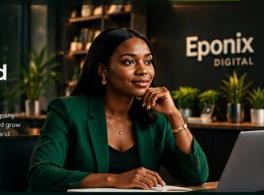
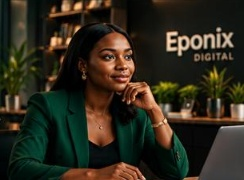
Enhance About page typography contrast, overlap Mission/Vision cards on story image, and eliminate background artifacts from photos

diff --git a/app/about/page.tsx b/app/about/page.tsx
@@ -22,21 +22,21 @@ export const metadata = {
 export default function AboutPage() {
   return (
     <div className="text-[#0c1210] bg-[#E6EADF]">
-      {/* 1. HERO (Light Cream #E6EADF - Fresh, Welcoming, Not Dark) */}
+      {/* 1. HERO (Light Cream #E6EADF - High Contrast, Bold Black & Primary Green) */}
       <section className="relative overflow-hidden bg-[#E6EADF] text-[#0c1210] pt-32 pb-20 lg:pt-40 lg:pb-28 border-b border-[#ced7cd]">
         <div className="site-container">
           <div className="grid grid-cols-1 lg:grid-cols-12 gap-12 lg:gap-16 items-center">
             {/* Left Column */}
             <div className="lg:col-span-7 space-y-6">
-              <div className="inline-flex items-center gap-2 font-mono text-[11px] tracking-[0.16em] uppercase text-[#367054] font-bold">
-                <span className="w-6 h-[2px] bg-[#367054]" />
+              <div className="inline-flex items-center gap-2 font-mono text-[12px] tracking-[0.16em] uppercase text-[#17382b] font-bold">
+                <span className="w-6 h-[2px] bg-[#17382b]" />
                 About Eponix Digital
               </div>
               <h1 className="text-[38px] sm:text-[54px] lg:text-[68px] font-bold leading-[1.02] tracking-[-0.05em] text-[#0c1210]">
                 Built for the Business Behind{" "}
-                <span className="text-[#265239]">the Ambition.</span>
+                <span className="text-[#17382b]">the Ambition.</span>
               </h1>
-              <p className="text-[16px] sm:text-[18px] text-[#55655b] leading-relaxed max-w-xl">
+              <p className="text-[16px] sm:text-[18px] text-[#2b3a30] font-medium leading-relaxed max-w-xl">
                 Eponix Digital is a business and digital solutions company helping Nigerian businesses build, brand, operate and grow with confidence - from registration to automation and beyond.
               </p>
               <div className="pt-2">
@@ -47,9 +47,9 @@ export default function AboutPage() {
               </div>
             </div>
 
-            {/* Right Column: Executive Portrait */}
+            {/* Right Column: Executive Director Portrait */}
             <div className="lg:col-span-5">
-              <div className="relative overflow-hidden rounded-2xl border border-[#ced7cd] shadow-xl group">
+              <div className="relative overflow-hidden rounded-3xl border border-[#ced7cd] shadow-2xl group bg-[#07100c]">
                 <img
                   src="/images/about-hero-director.jpg"
                   alt="Eponix Digital Executive Leadership"
@@ -61,67 +61,67 @@ export default function AboutPage() {
         </div>
       </section>
 
-      {/* 2. METRIC STRIP (Crisp Light Cream Strip #f3f5ec) */}
+      {/* 2. METRIC STRIP (Crisp Warm Light Cream Strip #f3f5ec) */}
       <section className="bg-[#f3f5ec] py-14 border-b border-[#ced7cd]">
         <div className="site-container">
           <div className="grid grid-cols-2 lg:grid-cols-4 gap-8">
             <div className="flex items-center gap-4">
-              <div className="w-12 h-12 rounded-xl bg-[#e5eadf] border border-[#ced7cd] flex items-center justify-center text-[#17382b] shrink-0">
+              <div className="w-12 h-12 rounded-xl bg-[#dce4d6] border border-[#c5d1bf] flex items-center justify-center text-[#17382b] shrink-0">
                 <Users className="w-6 h-6" />
               </div>
               <div>
-                <div className="text-[28px] sm:text-[34px] font-bold text-[#0c1210] leading-tight">500+</div>
-                <div className="text-[13px] text-[#55655b] uppercase tracking-wider font-mono">Businesses Supported</div>
+                <div className="text-[28px] sm:text-[34px] font-black text-[#0c1210] leading-tight">500+</div>
+                <div className="text-[13px] text-[#2b3a30] font-bold uppercase tracking-wider font-mono">Businesses Supported</div>
               </div>
             </div>
 
             <div className="flex items-center gap-4">
-              <div className="w-12 h-12 rounded-xl bg-[#e5eadf] border border-[#ced7cd] flex items-center justify-center text-[#17382b] shrink-0">
+              <div className="w-12 h-12 rounded-xl bg-[#dce4d6] border border-[#c5d1bf] flex items-center justify-center text-[#17382b] shrink-0">
                 <ShieldCheck className="w-6 h-6" />
               </div>
               <div>
-                <div className="text-[28px] sm:text-[34px] font-bold text-[#0c1210] leading-tight">98%</div>
-                <div className="text-[13px] text-[#55655b] uppercase tracking-wider font-mono">Client Satisfaction</div>
+                <div className="text-[28px] sm:text-[34px] font-black text-[#0c1210] leading-tight">98%</div>
+                <div className="text-[13px] text-[#2b3a30] font-bold uppercase tracking-wider font-mono">Client Satisfaction</div>
               </div>
             </div>
 
             <div className="flex items-center gap-4">
-              <div className="w-12 h-12 rounded-xl bg-[#e5eadf] border border-[#ced7cd] flex items-center justify-center text-[#17382b] shrink-0">
+              <div className="w-12 h-12 rounded-xl bg-[#dce4d6] border border-[#c5d1bf] flex items-center justify-center text-[#17382b] shrink-0">
                 <Layers className="w-6 h-6" />
               </div>
               <div>
-                <div className="text-[24px] sm:text-[28px] font-bold text-[#0c1210] leading-tight">End-to-End</div>
-                <div className="text-[13px] text-[#55655b] uppercase tracking-wider font-mono">Business Solutions</div>
+                <div className="text-[24px] sm:text-[28px] font-black text-[#0c1210] leading-tight">End-to-End</div>
+                <div className="text-[13px] text-[#2b3a30] font-bold uppercase tracking-wider font-mono">Business Solutions</div>
               </div>
             </div>
 
             <div className="flex items-center gap-4">
-              <div className="w-12 h-12 rounded-xl bg-[#e5eadf] border border-[#ced7cd] flex items-center justify-center text-[#17382b] shrink-0">
+              <div className="w-12 h-12 rounded-xl bg-[#dce4d6] border border-[#c5d1bf] flex items-center justify-center text-[#17382b] shrink-0">
                 <TrendingUp className="w-6 h-6" />
               </div>
               <div>
-                <div className="text-[24px] sm:text-[28px] font-bold text-[#0c1210] leading-tight">Ongoing</div>
-                <div className="text-[13px] text-[#55655b] uppercase tracking-wider font-mono">Support &amp; Partnership</div>
+                <div className="text-[24px] sm:text-[28px] font-black text-[#0c1210] leading-tight">Ongoing</div>
+                <div className="text-[13px] text-[#2b3a30] font-bold uppercase tracking-wider font-mono">Support &amp; Growth</div>
               </div>
             </div>
           </div>
         </div>
       </section>
 
-      {/* 3. OUR STORY & MISSION/VISION (Deep Forest Obsidian #07100c) */}
-      <section className="bg-[#07100c] text-[#f4f6ed] py-24 lg:py-32 border-b border-[rgba(201,249,90,0.14)]" id="story">
+      {/* 3. OUR STORY & MISSION/VISION (Light Cream #E6EADF with Overlapping Mission/Vision Cards) */}
+      <section className="bg-[#E6EADF] text-[#0c1210] py-24 lg:py-32 border-b border-[#ced7cd]" id="story">
         <div className="site-container">
           <div className="grid grid-cols-1 lg:grid-cols-12 gap-12 lg:gap-16 items-start">
             {/* Left Column: Story Copy */}
             <div className="lg:col-span-6 space-y-6">
-              <div className="inline-flex items-center gap-2 font-mono text-[11px] tracking-[0.16em] uppercase text-[#c9f95a]">
-                <span className="w-6 h-[2px] bg-[#c9f95a]" />
+              <div className="inline-flex items-center gap-2 font-mono text-[12px] tracking-[0.16em] uppercase text-[#17382b] font-bold">
+                <span className="w-6 h-[2px] bg-[#17382b]" />
                 Our Story
               </div>
-              <h2 className="text-[34px] sm:text-[46px] lg:text-[54px] font-bold leading-[1.05] tracking-[-0.05em] text-[#f4f6ed]">
-                A Partner in Your <span className="text-[#c9f95a]">Business Journey.</span>
+              <h2 className="text-[34px] sm:text-[46px] lg:text-[54px] font-bold leading-[1.05] tracking-[-0.05em] text-[#0c1210]">
+                A Partner in Your <span className="text-[#17382b]">Business Journey.</span>
               </h2>
-              <div className="space-y-4 text-[16px] sm:text-[17px] text-[#aab6ad] leading-relaxed">
+              <div className="space-y-4 text-[16px] sm:text-[17px] text-[#2b3a30] font-medium leading-relaxed">
                 <p>
                   Eponix Digital was born from a simple belief - that Nigerian businesses deserve more than fragmented services and confusing processes.
                 </p>
@@ -131,35 +131,38 @@ export default function AboutPage() {
               </div>
             </div>
 
-            {/* Right Column: Image & Mission/Vision Cards */}
-            <div className="lg:col-span-6 space-y-6">
-              <div className="relative overflow-hidden rounded-2xl border border-[rgba(201,249,90,0.2)] shadow-xl group">
+            {/* Right Column: Executive Photo Container with Nested Overlapping Mission & Vision Cards */}
+            <div className="lg:col-span-6">
+              {/* Executive Image Container */}
+              <div className="relative overflow-hidden rounded-3xl border border-[#ced7cd] shadow-2xl group bg-[#07100c]">
                 <img
                   src="/images/how-it-works-executive.jpg"
                   alt="Eponix Digital Executive Strategy Consultation"
-                  className="w-full h-[240px] sm:h-[280px] object-cover group-hover:scale-105 transition-transform duration-700"
+                  className="w-full h-[280px] sm:h-[340px] object-cover group-hover:scale-105 transition-transform duration-700"
                 />
+                <div className="absolute inset-0 bg-gradient-to-t from-[#07130c]/70 via-transparent to-transparent pointer-events-none" />
               </div>
 
-              <div className="grid grid-cols-1 sm:grid-cols-2 gap-4">
-                {/* Mission Card */}
-                <div className="p-6 rounded-xl bg-[#0b1710] border border-[#1e3b2b] space-y-3">
+              {/* Overlapping Mission & Vision Cards (Nested into bottom portion of the image) */}
+              <div className="-mt-16 sm:-mt-20 relative z-10 px-3 sm:px-6 grid grid-cols-1 sm:grid-cols-2 gap-4">
+                {/* Mission Card (Dark Obsidian) */}
+                <div className="p-6 rounded-2xl bg-[#07130c] border border-[#1e3b2b] shadow-2xl space-y-3">
                   <div className="flex items-center gap-2 text-[#c9f95a]">
-                    <Compass className="w-5 h-5" />
-                    <span className="font-bold text-[15px] uppercase tracking-wider font-mono text-[#f4f6ed]">Our Mission</span>
+                    <Compass className="w-5 h-5 shrink-0" />
+                    <span className="font-bold text-[14px] uppercase tracking-wider font-mono text-[#f4f6ed]">Our Mission</span>
                   </div>
-                  <p className="text-[14px] text-[#aab6ad] leading-relaxed">
+                  <p className="text-[13px] sm:text-[14px] text-[#c9d5cd] leading-relaxed">
                     To simplify business growth in Nigeria by providing integrated, reliable and forward-thinking solutions.
                   </p>
                 </div>
 
-                {/* Vision Card */}
-                <div className="p-6 rounded-xl bg-[#0b1710] border border-[#1e3b2b] space-y-3">
-                  <div className="flex items-center gap-2 text-[#c9f95a]">
-                    <Eye className="w-5 h-5" />
-                    <span className="font-bold text-[15px] uppercase tracking-wider font-mono text-[#f4f6ed]">Our Vision</span>
+                {/* Vision Card (Crisp Light Cream) */}
+                <div className="p-6 rounded-2xl bg-[#dbe4d6] border border-[#bcc8b6] shadow-2xl space-y-3">
+                  <div className="flex items-center gap-2 text-[#17382b]">
+                    <Eye className="w-5 h-5 shrink-0" />
+                    <span className="font-bold text-[14px] uppercase tracking-wider font-mono text-[#17382b]">Our Vision</span>
                   </div>
-                  <p className="text-[14px] text-[#aab6ad] leading-relaxed">
+                  <p className="text-[13px] sm:text-[14px] text-[#1e2f25] leading-relaxed font-medium">
                     To be Africa's most trusted partner for business registration, compliance, branding, digital infrastructure and intelligent growth solutions.
                   </p>
                 </div>
@@ -169,20 +172,21 @@ export default function AboutPage() {
         </div>
       </section>
 
-      {/* 4. OUR VALUES (Official Cream #E6EADF with Dark Green Cards) */}
-      <section className="bg-[#E6EADF] text-[#0c1210] py-24 lg:py-32 border-b border-[#ced7cd]">
+      {/* 4. OUR VALUES (Deep Forest Obsidian #07100c for Brand Depth) */}
+      <section className="bg-[#07100c] text-[#f4f6ed] py-24 lg:py-32 border-b border-[rgba(201,249,90,0.14)]">
         <div className="site-container">
           <div className="grid grid-cols-1 lg:grid-cols-12 gap-8 lg:gap-16 items-end mb-16">
             <div className="lg:col-span-8 space-y-4">
-              <div className="font-mono text-[11px] tracking-[0.16em] uppercase text-[#367054] font-bold">
+              <div className="inline-flex items-center gap-2 font-mono text-[11px] tracking-[0.16em] uppercase text-[#c9f95a]">
+                <span className="w-6 h-[2px] bg-[#c9f95a]" />
                 Our Values
               </div>
-              <h2 className="text-[34px] sm:text-[46px] lg:text-[54px] font-bold leading-[1.05] tracking-[-0.05em] text-[#0c1210]">
-                The Principles <span className="text-[#265239]">That Guide Us.</span>
+              <h2 className="text-[34px] sm:text-[46px] lg:text-[54px] font-bold leading-[1.05] tracking-[-0.05em] text-[#f4f6ed]">
+                The Principles <span className="text-[#c9f95a]">That Guide Us.</span>
               </h2>
             </div>
             <div className="lg:col-span-4">
-              <p className="text-[15px] text-[#55655b] leading-relaxed">
+              <p className="text-[15px] text-[#aab6ad] leading-relaxed">
                 Everything we do at Eponix Digital is built on a set of core values that shape how we work, support our clients and deliver results.
               </p>
             </div>
@@ -236,21 +240,21 @@ export default function AboutPage() {
         </div>
       </section>
 
-      {/* 5. WHAT MAKES US DIFFERENT (Dark Obsidian #07100c) */}
-      <section className="bg-[#07100c] text-[#f4f6ed] py-24 lg:py-32 border-b border-[rgba(201,249,90,0.14)]">
+      {/* 5. WHAT MAKES US DIFFERENT (Official Cream #E6EADF with Crisp Cards) */}
+      <section className="bg-[#E6EADF] text-[#0c1210] py-24 lg:py-32 border-b border-[#ced7cd]">
         <div className="site-container">
           <div className="grid grid-cols-1 lg:grid-cols-12 gap-8 lg:gap-16 items-end mb-16">
             <div className="lg:col-span-8 space-y-4">
-              <div className="inline-flex items-center gap-2 font-mono text-[11px] tracking-[0.16em] uppercase text-[#c9f95a]">
-                <span className="w-6 h-[2px] bg-[#c9f95a]" />
+              <div className="inline-flex items-center gap-2 font-mono text-[12px] tracking-[0.16em] uppercase text-[#17382b] font-bold">
+                <span className="w-6 h-[2px] bg-[#17382b]" />
                 What Makes Us Different
               </div>
-              <h2 className="text-[34px] sm:text-[46px] lg:text-[54px] font-bold leading-[1.05] tracking-[-0.05em] text-[#f4f6ed]">
-                More Than a Service Provider. <span className="block text-[#c9f95a]">A Growth Partner.</span>
+              <h2 className="text-[34px] sm:text-[46px] lg:text-[54px] font-bold leading-[1.05] tracking-[-0.05em] text-[#0c1210]">
+                More Than a Service Provider. <span className="block text-[#17382b]">A Growth Partner.</span>
               </h2>
             </div>
             <div className="lg:col-span-4">
-              <p className="text-[15px] text-[#aab6ad] leading-relaxed">
+              <p className="text-[15px] text-[#2b3a30] font-medium leading-relaxed">
                 We combine legal, strategic, creative and technical expertise to give you end-to-end business solutions under one roof.
               </p>
             </div>
@@ -258,45 +262,45 @@ export default function AboutPage() {
 
           <div className="grid grid-cols-1 sm:grid-cols-2 lg:grid-cols-4 gap-5">
             {/* Card 1 */}
-            <div className="p-7 rounded-2xl bg-[#0b1710] border border-[#1e3b2b] hover:border-[rgba(201,249,90,0.4)] transition-all space-y-4 shadow-md">
-              <div className="w-11 h-11 rounded-xl bg-[rgba(201,249,90,0.12)] border border-[rgba(201,249,90,0.25)] flex items-center justify-center text-[#c9f95a]">
+            <div className="p-7 rounded-2xl bg-[#f3f5ec] border border-[#c5d1bf] hover:border-[#17382b] transition-all space-y-4 shadow-sm hover:shadow-md">
+              <div className="w-11 h-11 rounded-xl bg-[#dce4d6] border border-[#bcc8b6] flex items-center justify-center text-[#17382b]">
                 <Layers className="w-5 h-5" />
               </div>
-              <h3 className="text-[18px] font-bold text-[#ffffff]">End-to-End Solutions</h3>
-              <p className="text-[13px] text-[#c9d5cd] leading-relaxed">
+              <h3 className="text-[18px] font-bold text-[#0c1210]">End-to-End Solutions</h3>
+              <p className="text-[13px] text-[#2b3a30] font-medium leading-relaxed">
                 From registration to automation, we bring all the essential services together.
               </p>
             </div>
 
             {/* Card 2 */}
-            <div className="p-7 rounded-2xl bg-[#0b1710] border border-[#1e3b2b] hover:border-[rgba(201,249,90,0.4)] transition-all space-y-4 shadow-md">
-              <div className="w-11 h-11 rounded-xl bg-[rgba(201,249,90,0.12)] border border-[rgba(201,249,90,0.25)] flex items-center justify-center text-[#c9f95a]">
+            <div className="p-7 rounded-2xl bg-[#f3f5ec] border border-[#c5d1bf] hover:border-[#17382b] transition-all space-y-4 shadow-sm hover:shadow-md">
+              <div className="w-11 h-11 rounded-xl bg-[#dce4d6] border border-[#bcc8b6] flex items-center justify-center text-[#17382b]">
                 <Users className="w-5 h-5" />
               </div>
-              <h3 className="text-[18px] font-bold text-[#ffffff]">Experienced Team</h3>
-              <p className="text-[13px] text-[#c9d5cd] leading-relaxed">
+              <h3 className="text-[18px] font-bold text-[#0c1210]">Experienced Team</h3>
+              <p className="text-[13px] text-[#2b3a30] font-medium leading-relaxed">
                 A team of professionals who understand the Nigerian business environment.
               </p>
             </div>
 
             {/* Card 3 */}
-            <div className="p-7 rounded-2xl bg-[#0b1710] border border-[#1e3b2b] hover:border-[rgba(201,249,90,0.4)] transition-all space-y-4 shadow-md">
-              <div className="w-11 h-11 rounded-xl bg-[rgba(201,249,90,0.12)] border border-[rgba(201,249,90,0.25)] flex items-center justify-center text-[#c9f95a]">
+            <div className="p-7 rounded-2xl bg-[#f3f5ec] border border-[#c5d1bf] hover:border-[#17382b] transition-all space-y-4 shadow-sm hover:shadow-md">
+              <div className="w-11 h-11 rounded-xl bg-[#dce4d6] border border-[#bcc8b6] flex items-center justify-center text-[#17382b]">
                 <Cpu className="w-5 h-5" />
               </div>
-              <h3 className="text-[18px] font-bold text-[#ffffff]">Technology-Driven</h3>
-              <p className="text-[13px] text-[#c9d5cd] leading-relaxed">
+              <h3 className="text-[18px] font-bold text-[#0c1210]">Technology-Driven</h3>
+              <p className="text-[13px] text-[#2b3a30] font-medium leading-relaxed">
                 We use modern tools, AI and automation to help you work smarter and grow faster.
               </p>
             </div>
 
             {/* Card 4 */}
-            <div className="p-7 rounded-2xl bg-[#0b1710] border border-[#1e3b2b] hover:border-[rgba(201,249,90,0.4)] transition-all space-y-4 shadow-md">
-              <div className="w-11 h-11 rounded-xl bg-[rgba(201,249,90,0.12)] border border-[rgba(201,249,90,0.25)] flex items-center justify-center text-[#c9f95a]">
+            <div className="p-7 rounded-2xl bg-[#f3f5ec] border border-[#c5d1bf] hover:border-[#17382b] transition-all space-y-4 shadow-sm hover:shadow-md">
+              <div className="w-11 h-11 rounded-xl bg-[#dce4d6] border border-[#bcc8b6] flex items-center justify-center text-[#17382b]">
                 <ShieldCheck className="w-5 h-5" />
               </div>
-              <h3 className="text-[18px] font-bold text-[#ffffff]">Practical Support</h3>
-              <p className="text-[13px] text-[#c9d5cd] leading-relaxed">
+              <h3 className="text-[18px] font-bold text-[#0c1210]">Practical Support</h3>
+              <p className="text-[13px] text-[#2b3a30] font-medium leading-relaxed">
                 Clear guidance, real solutions and ongoing support - not just one-time services.
               </p>
             </div>
@@ -304,13 +308,13 @@ export default function AboutPage() {
         </div>
       </section>
 
-      {/* 6. OUR IMPACT (Light Cream #E6EADF - Breaks up darkness before footer) */}
-      <section className="bg-[#E6EADF] text-[#0c1210] py-24 lg:py-32 border-b border-[#ced7cd]">
+      {/* 6. OUR IMPACT (Deep Forest #07100c) */}
+      <section className="bg-[#07100c] text-[#f4f6ed] py-24 lg:py-32 border-b border-[rgba(201,249,90,0.14)]">
         <div className="site-container">
           <div className="grid grid-cols-1 lg:grid-cols-12 gap-12 lg:gap-16 items-center">
             {/* Left Column: Team Visual */}
             <div className="lg:col-span-6">
-              <div className="relative overflow-hidden rounded-2xl border border-[#ced7cd] shadow-xl group">
+              <div className="relative overflow-hidden rounded-3xl border border-[rgba(201,249,90,0.2)] shadow-2xl group bg-[#07100c]">
                 <img
                   src="/images/about-impact-team.jpg"
                   alt="Eponix Digital Team Collaboration and Strategy Display"
@@ -321,13 +325,14 @@ export default function AboutPage() {
 
             {/* Right Column: Impact Copy */}
             <div className="lg:col-span-6 space-y-6">
-              <div className="font-mono text-[11px] tracking-[0.16em] uppercase text-[#367054] font-bold">
+              <div className="inline-flex items-center gap-2 font-mono text-[11px] tracking-[0.16em] uppercase text-[#c9f95a]">
+                <span className="w-6 h-[2px] bg-[#c9f95a]" />
                 Our Impact
               </div>
-              <h2 className="text-[34px] sm:text-[46px] lg:text-[54px] font-bold leading-[1.05] tracking-[-0.05em] text-[#0c1210]">
-                Helping Businesses Build <span className="text-[#265239]">Brighter Futures.</span>
+              <h2 className="text-[34px] sm:text-[46px] lg:text-[54px] font-bold leading-[1.05] tracking-[-0.05em] text-[#f4f6ed]">
+                Helping Businesses Build <span className="text-[#c9f95a]">Brighter Futures.</span>
               </h2>
-              <p className="text-[16px] sm:text-[17px] text-[#55655b] leading-relaxed">
+              <p className="text-[16px] sm:text-[17px] text-[#aab6ad] leading-relaxed">
                 From startups and SMEs to established companies, we have helped hundreds of Nigerian businesses build the right foundation, create powerful brands, stay compliant, go digital and scale with confidence.
               </p>
               <div className="pt-2">
@@ -341,12 +346,13 @@ export default function AboutPage() {
         </div>
       </section>
 
-      {/* 7. LET'S BUILD TOGETHER (Light Cream #E6EADF Canvas with Focused Dark Emerald Card) */}
+      {/* 7. LET'S BUILD TOGETHER (Light Cream #E6EADF Canvas with High-Impact Obsidian Card) */}
       <section className="bg-[#E6EADF] text-[#f4f6ed] py-16 lg:py-20 border-b border-[#ced7cd]">
         <div className="site-container">
-          <div className="p-8 sm:p-12 lg:p-16 rounded-3xl bg-[#0b1710] border border-[#1e3b2b] shadow-2xl flex flex-col lg:flex-row items-start lg:items-center justify-between gap-8">
+          <div className="p-8 sm:p-12 lg:p-16 rounded-3xl bg-[#07130c] border border-[#1e3b2b] shadow-2xl flex flex-col lg:flex-row items-start lg:items-center justify-between gap-8">
             <div className="space-y-4 max-w-2xl">
-              <div className="font-mono text-[11px] tracking-[0.16em] uppercase text-[#c9f95a]">
+              <div className="inline-flex items-center gap-2 font-mono text-[11px] tracking-[0.16em] uppercase text-[#c9f95a]">
+                <span className="w-6 h-[2px] bg-[#c9f95a]" />
                 Let's Build Together
               </div>
               <h2 className="text-[30px] sm:text-[42px] lg:text-[48px] font-bold leading-[1.08] tracking-[-0.05em] text-[#f4f6ed]">

diff --git a/app/page.tsx b/app/page.tsx
@@ -222,22 +222,22 @@ export default function HomePage() {
           {/* Section Header */}
           <div className="grid grid-cols-1 lg:grid-cols-12 gap-8 lg:gap-16 items-end mb-16">
             <div className="lg:col-span-8 space-y-4 reveal">
-              <div className="inline-flex items-center gap-2 px-3.5 py-1 rounded-full border border-[#ced7cd] bg-[#d8dfd0] font-mono text-[11px] uppercase tracking-wider text-[#265239] font-bold">
+              <div className="inline-flex items-center gap-2 px-3.5 py-1 rounded-full border border-[#ced7cd] bg-[#d8dfd0] font-mono text-[11px] uppercase tracking-wider text-[#17382b] font-bold">
                 Why Choose Eponix Digital
               </div>
               <h2 className="text-[34px] sm:text-[46px] lg:text-[56px] font-bold leading-[1.05] tracking-[-0.05em] text-[#0c1210]">
                 More Than a Service Provider.
-                <span className="block text-[#265239]">A Growth Partner.</span>
+                <span className="block text-[#17382b]">A Growth Partner.</span>
               </h2>
-              <p className="text-[15px] sm:text-[17px] text-[#55655b] max-w-2xl leading-relaxed">
+              <p className="text-[15px] sm:text-[17px] text-[#2b3a30] font-medium max-w-2xl leading-relaxed">
                 We combine expertise, technology and a deep understanding of Nigerian business needs to give you practical solutions that work - from registration to automation and beyond.
               </p>
             </div>
 
             <div className="lg:col-span-4 reveal">
-              <div className="border-l-2 border-[#265239] pl-5 py-2">
-                <p className="text-[14px] sm:text-[15px] text-[#3b4c42] leading-relaxed">
-                  Your business deserves more than just registration. You deserve a partner that understands your journey and helps you <strong className="text-[#17382b] font-semibold">build, brand and grow</strong> with confidence.
+              <div className="border-l-2 border-[#17382b] pl-5 py-2">
+                <p className="text-[14px] sm:text-[15px] text-[#2b3a30] font-medium leading-relaxed">
+                  Your business deserves more than just registration. You deserve a partner that understands your journey and helps you <strong className="text-[#17382b] font-bold">build, brand and grow</strong> with confidence.
                 </p>
               </div>
             </div>

diff --git a/app/services/page.tsx b/app/services/page.tsx
@@ -570,7 +570,7 @@ export default function ServicesPage() {
               </div>
 
               {currentFlow.featureNote && (
-                <div className="p-6 bg-[#f6f8f1] border-l-4 border-[#c9f95a] text-[13px] text-[#54645a] mt-8">
+                <div className="p-6 bg-[#f6f8f1] border-l-4 border-[#17382b] text-[13px] text-[#2b3a30] font-medium mt-8">
                   {currentFlow.featureNote}
                 </div>
               )}
